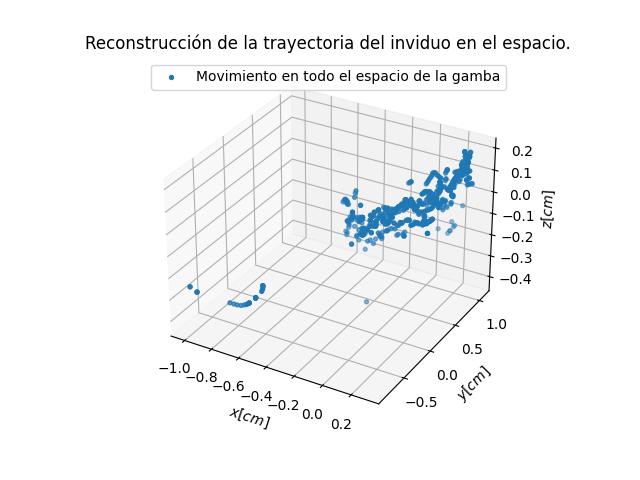
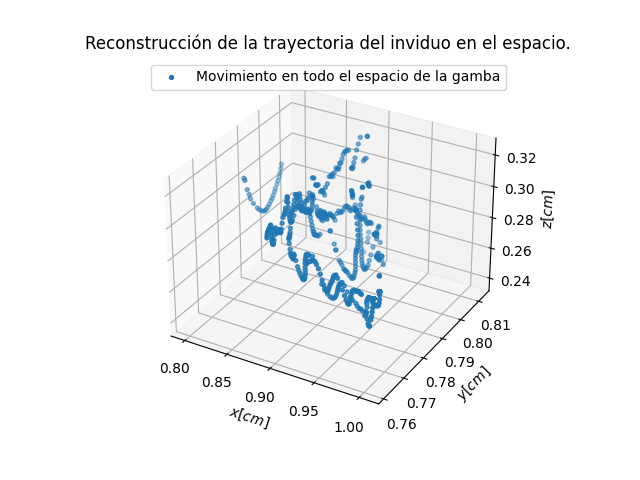
Primer Portotipo funcional

diff --git a/aplicacion/lectura/lectura.py b/aplicacion/lectura/lectura.py
@@ -78,7 +78,7 @@ def leer(filename):
         cambiarlo a uno que este admita, y solo admite np.uint8 de un solo canal
         """
         resta = np.clip(frame - fondo, 0, 255).astype(np.uint8)#Los restamos
-        resta = cv2.medianBlur(resta, 3)#Le pasamos el filtro de la mediana
+        resta = cv2.medianBlur(resta, 7)#Le pasamos el filtro de la mediana
         resta = (resta > 100).astype(np.uint8) * 255#Binarizamos
         restado.append(resta)
 
@@ -301,26 +301,45 @@ def Resolver_Sistema(cent_x, cent_y,xc1, yc1, zc1, xc2, yc2, zc2, Lx, Ly, w= 800
     
     for i in range(n):
         
+        """
         x1= cent_x[i][0]/w
         z1= cent_x[i][1]/h
         
         y2= cent_y[i][0]/w
         z2= cent_y[i][1]/h
+        """
+
+        y1= cent_x[i][0]/w #Lo de cent_x es porque era la camara paralela al eje x
+        z1= cent_x[i][1]/h
+
+        x2= cent_y[i][0]/w
+        z2= cent_y[i][1]/h
         
         """
-        Resolvemos un sistema tq M*x= N donde M es una matriz 4x3 y N es una matriz 4x1, nuestra solucion es un array 
+        Resolvemos un sistema tq M*x= N donde M es una matriz 4x3 y N es una matriz 4x1, 
+        nuestra solucion es un array 
         de la forma [x,y,z]
 
-        Hemos divido entre el ancho (w) y el alto (h) para tener valores adimensionales entre 0 y 1 
+        Hemos divido entre el ancho (w) y el alto (h) para tener valores adimensionales 
+        entre 0 y 1 
         siendo que Lx y Ly valen 1 precisamente por eso.
         """
         
+        """
         M= np.array([[x1-xc1,yc1-Ly,0],
             [z1-zc1,0,yc1-Ly],
             [xc2-Lx,y2-yc2,0],
             [0,z2-zc2,xc2-Lx]])#Si hay algun problema, a lo mejor es en esta matriz
         
         N= np.array([yc1*x1 - Ly*xc1, yc1*z1 - Ly*zc1, xc2*y2 - Lx*yc2, xc2*z2 - Lx*zc2])
+        """
+
+        M= np.array([[y1-yc1,xc1-Lx,0],
+            [z1-zc1,0,xc1-Lx],
+            [yc2-Ly,x2-xc2,0],
+            [0,z2-zc2,yc2-Ly]])#Si hay algun problema, a lo mejor es en esta matriz
+        
+        N= np.array([xc1*y1 - Lx*yc1, xc1*z1 - Lx*zc1, yc2*x2 - Ly*xc2, yc2*z2 - Ly*zc2])
         
         sol= scp.linalg.lstsq(M,N)[0]#La que importa es la cero, el resto son otras cosas
 
